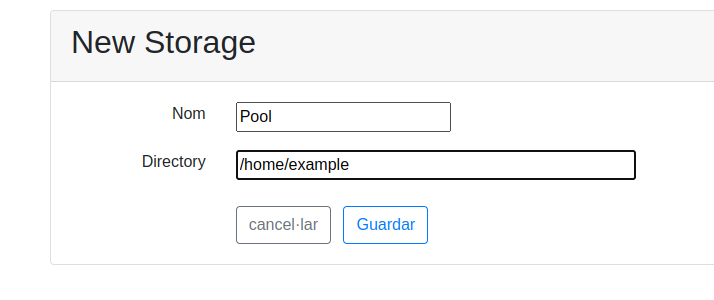
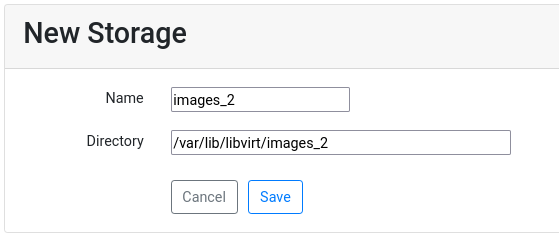
doc: improved storage pool manual

diff --git a/docs/docs/add_kvm_storage_pool.rst b/docs/docs/add_kvm_storage_pool.rst
@@ -46,12 +46,12 @@ Add this new partition to the filesystem table:
 
 .. prompt:: bash $
 
-    sudo mkdir /var/lib/libvirt/images.2
+    sudo mkdir /var/lib/libvirt/images_2
     sudo vim /etc/fstab
 
 ::
 
-    UUID=e5ff57d7-cde6-4117-ac5d-1b14ac5b218f  /var/lib/libvirt/images.2 ext4  auto    0   3
+    UUID=e5ff57d7-cde6-4117-ac5d-1b14ac5b218f  /var/lib/libvirt/images_2 ext4  rw,relatime    0   0
 
 It will mount it next time you boot, but it can be used without
 rebooting issuing:
@@ -74,3 +74,19 @@ And that's it, now Ravada will use the pool that has more empty space
 the next time it needs to create a volume. If you want to fine tune
 what storage pool is used by default follow the
 `advanced settings documentation <advanced_settings.html>`__ .
+
+Using the storage pool
+----------------------
+
+When adding disk volumes to a virtual machine, you can select on what
+storage will be saved.
+
+.. image:: images/storage_pool_select.png
+   :alt: select storage
+
+Once the virtual machine is created, the volume can be moved to another
+storage pool.
+
+.. image:: images/storage_pool_change.png
+   :alt: change storage
+
